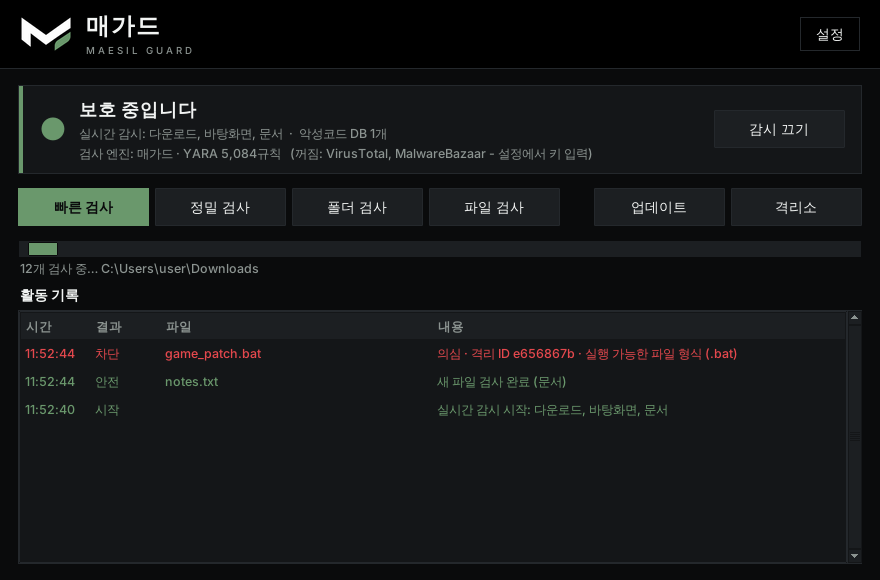
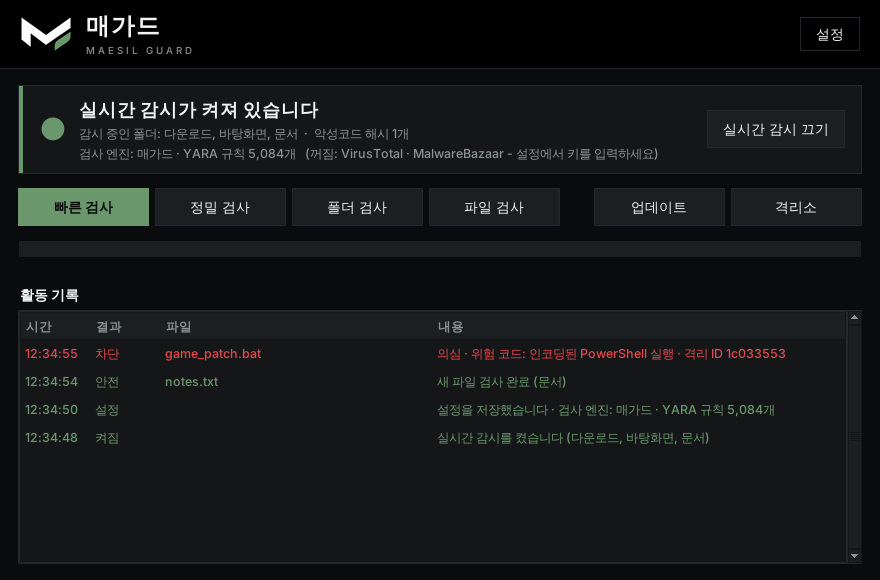
Make status and log wording consistent (1.4.1)
- Use "실시간 감시 켜기/끄기" everywhere and 켜짐/꺼짐 in the log
- Call the hash list "악성코드 해시" and YARA "YARA 규칙 N개" in all places
- Don't log stop/start when settings are saved
- Show the strongest detection reason in the log instead of the first one
- Empty the progress bar when no scan is running
- Refresh README screenshot

Claude-Session: https://claude.ai/code/session_01EM8TEZLXJPiu81jMYcuGf3

diff --git a/maeguard_gui.py b/maeguard_gui.py
@@ -11,7 +11,7 @@ from tkinter import filedialog, messagebox, ttk
 import maeguard as mg
 import maeguard_engines as me
 
-VERSION = "1.4.0"
+VERSION = "1.4.1"
 FOLDER_NAMES = {"downloads": "다운로드", "desktop": "바탕화면", "바탕 화면": "바탕화면",
                 "documents": "문서", "문서": "문서", "startup": "시작프로그램"}
 
@@ -287,7 +287,7 @@ class MaeGuardApp:
 
         prog = tk.Frame(r, bg=BG)
         prog.pack(fill="x", padx=18, pady=(10, 0))
-        self.progress = ttk.Progressbar(prog, mode="indeterminate")
+        self.progress = ttk.Progressbar(prog, mode="determinate", value=0)
         self.progress.pack(fill="x")
         self.progress_label = tk.Label(prog, text="", font=self.f_small, bg=BG, fg=MUTED, anchor="w")
         self.progress_label.pack(fill="x")
@@ -338,20 +338,20 @@ class MaeGuardApp:
         if not me.load_config().get("abusech_key"):
             missing.append("MalwareBazaar")
         self.status_eng.config(text="검사 엔진: " + " · ".join(names)
-                               + (f"   (꺼짐: {', '.join(missing)} - 설정에서 키 입력)" if missing else ""))
+                               + (f"   (꺼짐: {' · '.join(missing)} - 설정에서 키를 입력하세요)" if missing else ""))
         if on:
             self.status_dot.config(fg=OK)
             self.status_bar.config(bg=OK)
-            self.status_title.config(text="보호 중입니다")
+            self.status_title.config(text="실시간 감시가 켜져 있습니다")
             names = folder_labels(self.watch_folders)
-            self.status_sub.config(text=f"실시간 감시: {names}  ·  악성코드 DB {self.sig_count:,}개")
-            self.watch_btn.config(text="감시 끄기")
+            self.status_sub.config(text=f"감시 중인 폴더: {names}  ·  악성코드 해시 {self.sig_count:,}개")
+            self.watch_btn.config(text="실시간 감시 끄기")
         else:
             self.status_dot.config(fg=DANGER)
             self.status_bar.config(bg=DANGER)
             self.status_title.config(text="실시간 감시가 꺼져 있습니다")
-            self.status_sub.config(text=f"새 파일을 자동으로 검사하지 않습니다  ·  악성코드 DB {self.sig_count:,}개")
-            self.watch_btn.config(text="감시 켜기")
+            self.status_sub.config(text=f"새 파일을 자동으로 검사하지 않습니다  ·  악성코드 해시 {self.sig_count:,}개")
+            self.watch_btn.config(text="실시간 감시 켜기")
         self._refresh_tray()
 
     def ask_block(self, r) -> bool:
@@ -381,21 +381,21 @@ class MaeGuardApp:
         if self.ask_block(r):
             try:
                 qid = mg.quarantine(r)
-                self.ui(lambda: self.add_row("차단", r.path, f"{r.verdict} · 격리 ID {qid} · {r.reasons[0]}", "block"))
+                self.ui(lambda: self.add_row("차단", r.path, f"{r.verdict} · {r.top_reason} · 격리 ID {qid}", "block"))
                 return "차단"
             except OSError as e:
                 self.ui(lambda err=str(e): self.add_row("실패", r.path, f"차단 실패: {err}", "allow"))
                 return "허용"
         mg.log(f"허용: {r.path} ({r.verdict}, 점수 {r.score})")
-        self.ui(lambda: self.add_row("허용", r.path, f"{r.verdict} · 점수 {r.score}", "allow"))
+        self.ui(lambda: self.add_row("허용", r.path, f"{r.verdict} · {r.top_reason} · 점수 {r.score}", "allow"))
         return "허용"
 
-    def start_watch(self):
+    def start_watch(self, quiet: bool = False):
         if self.watch_stop is not None:
             return
         self.watch_folders = mg.default_watch_folders()
         if not self.watch_folders:
-            self.add_row("오류", "", "감시할 폴더를 찾을 수 없습니다", "allow")
+            self.add_row("실패", "", "감시할 폴더를 찾을 수 없습니다", "allow")
             return
         self.watch_stop = threading.Event()
         stop = self.watch_stop
@@ -410,16 +410,18 @@ class MaeGuardApp:
             threading.Thread(target=lambda f=folder: mg.Watcher(f, on_result, engines=self.engines).run(stop), daemon=True).start()
         names = folder_labels(self.watch_folders)
         mg.log(f"감시 시작: {[str(f) for f in self.watch_folders]}")
-        self.add_row("시작", "", f"실시간 감시 시작: {names}", "ok")
+        if not quiet:
+            self.add_row("켜짐", "", f"실시간 감시를 켰습니다 ({names})", "ok")
         self._update_status()
 
-    def stop_watch(self):
+    def stop_watch(self, quiet: bool = False):
         if self.watch_stop is None:
             return
         self.watch_stop.set()
         self.watch_stop = None
         mg.log("감시 종료")
-        self.add_row("중지", "", "실시간 감시를 껐습니다", "allow")
+        if not quiet:
+            self.add_row("꺼짐", "", "실시간 감시를 껐습니다", "allow")
         self._update_status()
 
     def toggle_watch(self):
@@ -439,29 +441,29 @@ class MaeGuardApp:
             msgs, failed = [], False
             try:
                 added = mg.update_signatures(me.load_config().get("abusech_key", ""))
-                msgs.append(f"악성코드 DB {added:,}개 추가")
+                msgs.append(f"악성코드 해시 {added:,}개 추가")
             except mg.NoAuthKey:
                 if manual:
-                    msgs.append("악성코드 DB 건너뜀 (설정에서 abuse.ch 키 입력)")
+                    msgs.append("악성코드 해시: 건너뜀 (설정에서 abuse.ch 키를 입력하세요)")
             except Exception as e:
                 failed = True
                 mg.log(f"악성코드 DB 업데이트 실패: {e}")
-                msgs.append(f"악성코드 DB 실패: {e}")
+                msgs.append(f"악성코드 해시: 실패 ({e})")
             y = self.engines.yara
             if y is not None and y.yara is not None and (manual or y.needs_update()):
                 try:
-                    msgs.append(f"YARA 규칙 {y.update():,}개")
+                    msgs.append(f"YARA 규칙 {y.update():,}개로 갱신")
                 except Exception as e:
                     failed = True
                     mg.log(f"YARA 업데이트 실패: {e}")
-                    msgs.append("YARA 업데이트 실패")
+                    msgs.append("YARA 규칙: 실패")
             total = len(mg.load_signatures())
 
             def done():
                 self.sig_count = total
                 self._update_status()
                 if msgs:
-                    text = " · ".join(msgs) + f" (해시 총 {total:,}개)"
+                    text = " · ".join(msgs) + f" (악성코드 해시 총 {total:,}개)"
                     self.add_row("실패" if failed else "업데이트", "", text, "allow" if failed else "ok")
                 if manual:
                     body = "\n".join(msgs) or "이미 최신입니다."
@@ -487,9 +489,11 @@ class MaeGuardApp:
         for b in (self.btn_quick, self.btn_full, self.btn_folder, self.btn_file):
             b.config(state=state)
         if on:
+            self.progress.config(mode="indeterminate")
             self.progress.start(12)
         else:
             self.progress.stop()
+            self.progress.config(mode="determinate", value=0)
 
     def start_scan(self, targets, label="검사"):
         if self.scan_running:
@@ -596,10 +600,10 @@ class MaeGuardApp:
             me.save_config(cfg)
             self.engines = me.Engines(cfg)
             if self.watch_stop is not None:
-                self.stop_watch()
-                self.start_watch()
+                self.stop_watch(quiet=True)
+                self.start_watch(quiet=True)
             self._update_status()
-            self.add_row("설정", "", "검사 엔진: " + ", ".join(["매가드"] + self.engines.active_names()), "ok")
+            self.add_row("설정", "", "설정을 저장했습니다 · 검사 엔진: " + " · ".join(["매가드"] + self.engines.active_names()), "ok")
             win.destroy()
             y = self.engines.yara
             if key_changed and cfg["abusech_key"]:

diff --git a/maeguard.py b/maeguard.py
@@ -274,6 +274,14 @@ class ScanResult:
     def add(self, score: int, reason: str):
         self.score += score
         self.reasons.append(reason)
+        self._scores = getattr(self, "_scores", []) + [score]
+
+    @property
+    def top_reason(self) -> str:
+        if not self.reasons:
+            return ""
+        scores = getattr(self, "_scores", [0] * len(self.reasons))
+        return self.reasons[max(range(len(self.reasons)), key=lambda i: scores[i])]
 
     @property
     def verdict(self) -> str:

diff --git a/maeguard_engines.py b/maeguard_engines.py
@@ -274,7 +274,7 @@ class Engines:
         if self.vt and self.vt.available:
             names.append("VirusTotal")
         if self.yara and self.yara.available:
-            names.append(f"YARA {self.yara.count:,}규칙")
+            names.append(f"YARA 규칙 {self.yara.count:,}개")
         return names
 
     def apply(self, path: Path, sha256: str, r, vt_wait: float = 65, use_vt: bool = True) -> None:
